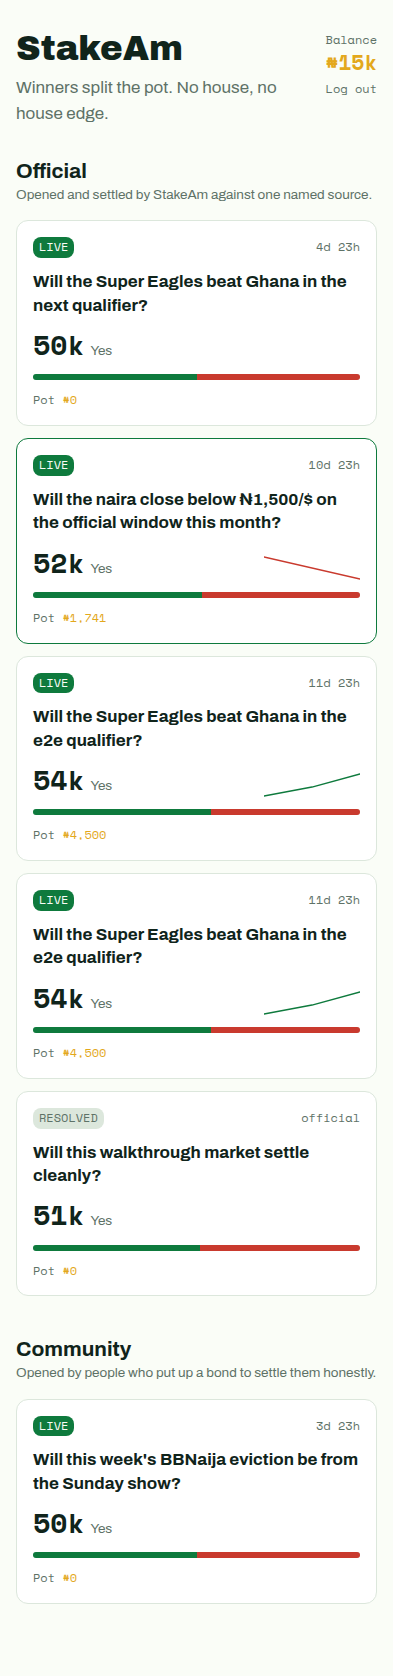
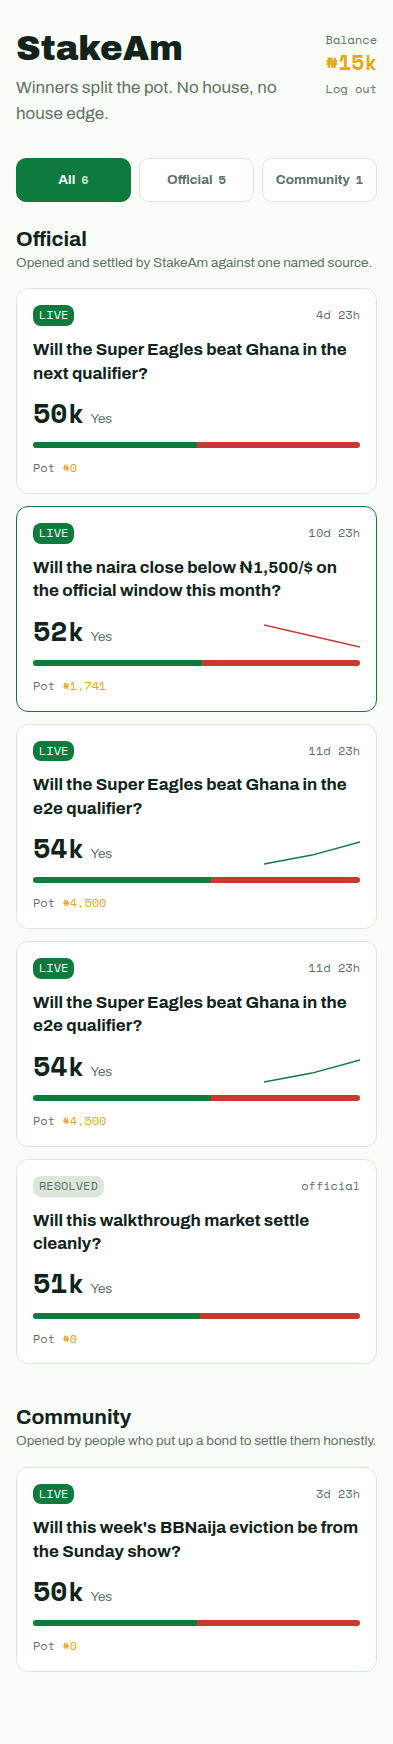
feat(web): give the markets screen a shelf switcher
§7.1's two shelves were two stacked sections and nothing else. On a desktop
that is fine. On the phone this product is actually used on, one full shelf of
cards pushes the other clean off the screen, and the second shelf reads as
missing rather than as further down — which is exactly how it was reported:
"there's no button to select official market or community market".

Three chips now: All · Official · Community. Each carries a count, so an empty
shelf answers for itself rather than making somebody tap to find out, and each
clears the 44px a thumb needs.

The choice lives in the URL rather than in component state. A shelf is linkable
and survives a reload, the page stays a server component, and an unrecognised
shelf name falls back to showing everything instead of an empty screen.

Also stops the walkthrough photographing mid-transition: caught between two
states the chips came out part-green on both, which reads as two selected
shelves — a documentation image saying something the product does not.

Verified by looking at both viewports as well as asserting: 51 browser journeys
across desktop and phone, 291 unit and integration tests, lint, format,
typecheck and build.

Claude-Session: https://claude.ai/code/session_01Rfy8jyTKi3JQybEZ3QwCNT

diff --git a/apps/web/src/app/markets/page.tsx b/apps/web/src/app/markets/page.tsx
@@ -1,9 +1,23 @@
+import Link from 'next/link';
+
 import { api, type MarketSummary } from '@/lib/api';
 import { AppHeader } from '@/components/app-header';
 import { MarketCard } from '@/components/market-card';
 
 // Prices move; a cached shelf is a stale shelf.
 export const dynamic = 'force-dynamic';
+
+/** The three views of §7.1's two shelves. */
+const VIEWS = [
+  { key: 'all', label: 'All' },
+  { key: 'official', label: 'Official' },
+  { key: 'community', label: 'Community' },
+] as const;
+
+type View = (typeof VIEWS)[number]['key'];
+
+const isView = (value: string | undefined): value is View =>
+  VIEWS.some((view) => view.key === value);
 
 /**
  * §7.1 — markets home. Two shelves, official and community.
@@ -12,8 +26,25 @@ export const dynamic = 'force-dynamic';
  * markets are seeded by the platform, community ones are opened by a person who
  * has posted a bond and has to resolve them. That is worth saying on the page,
  * not just in the data model.
+ *
+ * They used to be two stacked sections and nothing else, which is fine on a
+ * desktop and wrong on a phone: one full shelf of cards pushes the other one
+ * clean off the screen, so the second shelf reads as missing rather than as
+ * further down. The chips below are the fix — and they carry counts, because a
+ * chip that says "Community 0" answers the question a chip that just says
+ * "Community" makes you tap to find out.
+ *
+ * The choice lives in the URL rather than in component state, so a shelf can be
+ * linked to and survives a reload, and the page stays a server component.
  */
-export default async function MarketsPage() {
+export default async function MarketsPage({
+  searchParams,
+}: {
+  searchParams: Promise<{ shelf?: string }>;
+}) {
+  const { shelf } = await searchParams;
+  const view: View = isView(shelf) ? shelf : 'all';
+
   let markets: MarketSummary[] = [];
   let unreachable = false;
 
@@ -25,6 +56,11 @@ export default async function MarketsPage() {
 
   const official = markets.filter((m) => m.shelf === 'official');
   const community = markets.filter((m) => m.shelf === 'community');
+  const counts: Record<View, number> = {
+    all: markets.length,
+    official: official.length,
+    community: community.length,
+  };
 
   return (
     <main className="mx-auto max-w-3xl px-4 py-8">
@@ -37,16 +73,49 @@ export default async function MarketsPage() {
         </p>
       )}
 
-      <Shelf
-        title="Official"
-        blurb="Opened and settled by StakeAm against one named source."
-        markets={official}
-      />
-      <Shelf
-        title="Community"
-        blurb="Opened by people who put up a bond to settle them honestly."
-        markets={community}
-      />
+      <nav aria-label="Shelf" className="mb-6 flex gap-2">
+        {VIEWS.map(({ key, label }) => {
+          const selected = key === view;
+          return (
+            <Link
+              key={key}
+              href={key === 'all' ? '/markets' : `/markets?shelf=${key}`}
+              aria-current={selected ? 'page' : undefined}
+              // min-h-11 is the 44px a thumb needs; this is the control the
+              // whole screen is steered by on a phone.
+              className={`flex min-h-11 flex-1 items-center justify-center gap-1.5 rounded-md border px-3 text-sm font-bold transition-colors ${
+                selected
+                  ? 'border-rise bg-rise text-paper'
+                  : 'border-border bg-surface-raised text-text-muted hover:border-rise'
+              }`}
+            >
+              {label}
+              <span
+                className={`font-mono text-xs tabular-nums ${
+                  selected ? 'text-paper/80' : 'text-text-muted'
+                }`}
+              >
+                {counts[key]}
+              </span>
+            </Link>
+          );
+        })}
+      </nav>
+
+      {view !== 'community' && (
+        <Shelf
+          title="Official"
+          blurb="Opened and settled by StakeAm against one named source."
+          markets={official}
+        />
+      )}
+      {view !== 'official' && (
+        <Shelf
+          title="Community"
+          blurb="Opened by people who put up a bond to settle them honestly."
+          markets={community}
+        />
+      )}
     </main>
   );
 }

diff --git a/apps/web/e2e/walkthrough.spec.ts b/apps/web/e2e/walkthrough.spec.ts
@@ -45,6 +45,10 @@ async function capture(page: Page, name: string, info: TestInfo): Promise<void> 
   await page.screenshot({
     path: join(SHOTS, info.project.name, `${String(shot).padStart(2, '0')}-${name}.png`),
     fullPage: true,
+    // Settle first. Caught mid-transition, the shelf chips photographed with
+    // two of them part-green, which reads as two selected shelves — a
+    // documentation image that says something the product does not.
+    animations: 'disabled',
   });
 }
 
@@ -142,7 +146,7 @@ test.describe('the walkthrough', () => {
     await capture(page, 'markets-signed-in', testInfo);
   });
 
-  test('4 · both shelves are on the markets screen', async ({ page }, testInfo) => {
+  test('4 · both shelves are on the markets screen, and switchable', async ({ page }, testInfo) => {
     await signIn(page, email, password);
     await page.goto('/markets');
     await expect(page.getByRole('heading', { name: 'Official', exact: true })).toBeVisible();
@@ -150,6 +154,56 @@ test.describe('the walkthrough', () => {
     await expect(page.getByText(/naira close below/i)).toBeVisible();
     await expect(page.getByText(/BBNaija eviction/i)).toBeVisible();
     await capture(page, 'shelves', testInfo);
+
+    const shelf = page.getByRole('navigation', { name: 'Shelf' });
+
+    // Community alone. Two stacked sections and no control meant that on a
+    // phone one full shelf pushed the other off the screen, and the second read
+    // as missing rather than as further down.
+    await shelf.getByRole('link', { name: /^Community/ }).click();
+    await expect(page).toHaveURL(/shelf=community/);
+    await expect(page.getByText(/BBNaija eviction/i)).toBeVisible();
+    await expect(page.getByText(/naira close below/i)).toHaveCount(0);
+    await capture(page, 'shelf-community', testInfo);
+
+    // Official alone.
+    await shelf.getByRole('link', { name: /^Official/ }).click();
+    await expect(page).toHaveURL(/shelf=official/);
+    await expect(page.getByText(/naira close below/i)).toBeVisible();
+    await expect(page.getByText(/BBNaija eviction/i)).toHaveCount(0);
+
+    // And back to everything. The choice is in the URL, so it can be linked and
+    // survives a reload.
+    await shelf.getByRole('link', { name: /^All/ }).click();
+    await expect(page.getByText(/naira close below/i)).toBeVisible();
+    await expect(page.getByText(/BBNaija eviction/i)).toBeVisible();
+  });
+
+  test('4b · the shelf chips carry counts and are reachable with a thumb', async ({ page }) => {
+    await signIn(page, email, password);
+    await page.goto('/markets');
+
+    const chips = page.getByRole('navigation', { name: 'Shelf' }).getByRole('link');
+    await expect(chips).toHaveCount(3);
+
+    // A count is what makes an empty shelf answerable without tapping into it.
+    for (const chip of await chips.all()) {
+      await expect(chip).toHaveText(/\d+$/);
+      const box = await chip.boundingBox();
+      expect(box?.height ?? 0).toBeGreaterThanOrEqual(44);
+    }
+
+    // Deep-linkable, and the selected chip says so to a screen reader.
+    await page.goto('/markets?shelf=community');
+    await expect(
+      page.getByRole('navigation', { name: 'Shelf' }).getByRole('link', { name: /^Community/ }),
+    ).toHaveAttribute('aria-current', 'page');
+
+    // A shelf name that means nothing falls back to showing everything rather
+    // than to an empty screen.
+    await page.goto('/markets?shelf=nonsense');
+    await expect(page.getByRole('heading', { name: 'Official', exact: true })).toBeVisible();
+    await expect(page.getByRole('heading', { name: 'Community', exact: true })).toBeVisible();
   });
 
   test('5 · the ticket shows the chart, the argument bar and the money', async ({

diff --git a/docs/walkthrough/README.md b/docs/walkthrough/README.md
@@ -26,7 +26,7 @@ these images cannot drift from a passing suite without the suite going red.
 | 01    | Landing                | §7.6's front door: hero, live market at real prices, how-it-works, trust block, CTA |
 | 02    | Signup                 | §2.1 Tier 0 — one contact field, password, age attestation                          |
 | 03–04 | Verification           | Tier 1 by real OTP, read from the notification the API actually sent                |
-| 05–06 | Markets                | Both shelves; balance in the header                                                 |
+| 05–08 | Markets                | Both shelves, the shelf chips, and one shelf on its own; balance in the header      |
 | 07    | Ticket                 | Chart, argument bar, money strip, priced buttons                                    |
 | 08    | Trade sheet (buy)      | Amount-first entry, shares, est. to win                                             |
 | 09    | Position               | What you hold, marked to market                                                     |
@@ -128,7 +128,16 @@ and answered generically. §2.7's one-account-per-contact clash is turned into a
 sentence with a next step: "an account already uses that email — log in
 instead, or use another address."
 
-**12. `pnpm start` ran a server the deployment never uses.** Next warns that
+**12. There was no way to choose a shelf.** §7.1's two shelves were two stacked
+sections and nothing else — fine on a desktop, wrong on the phone this product
+is used on, where one full shelf of cards pushes the other clean off the screen
+and the second reads as missing rather than as further down. There are chips
+now: All · Official · Community, each carrying a count, so an empty shelf
+answers for itself instead of making you tap to find out. The choice lives in
+the URL, so a shelf is linkable and survives a reload, and the page stays a
+server component.
+
+**13. `pnpm start` ran a server the deployment never uses.** Next warns that
 `next start` does not support `output: standalone` on every boot. That mismatch
 is how (1) survived.
 
